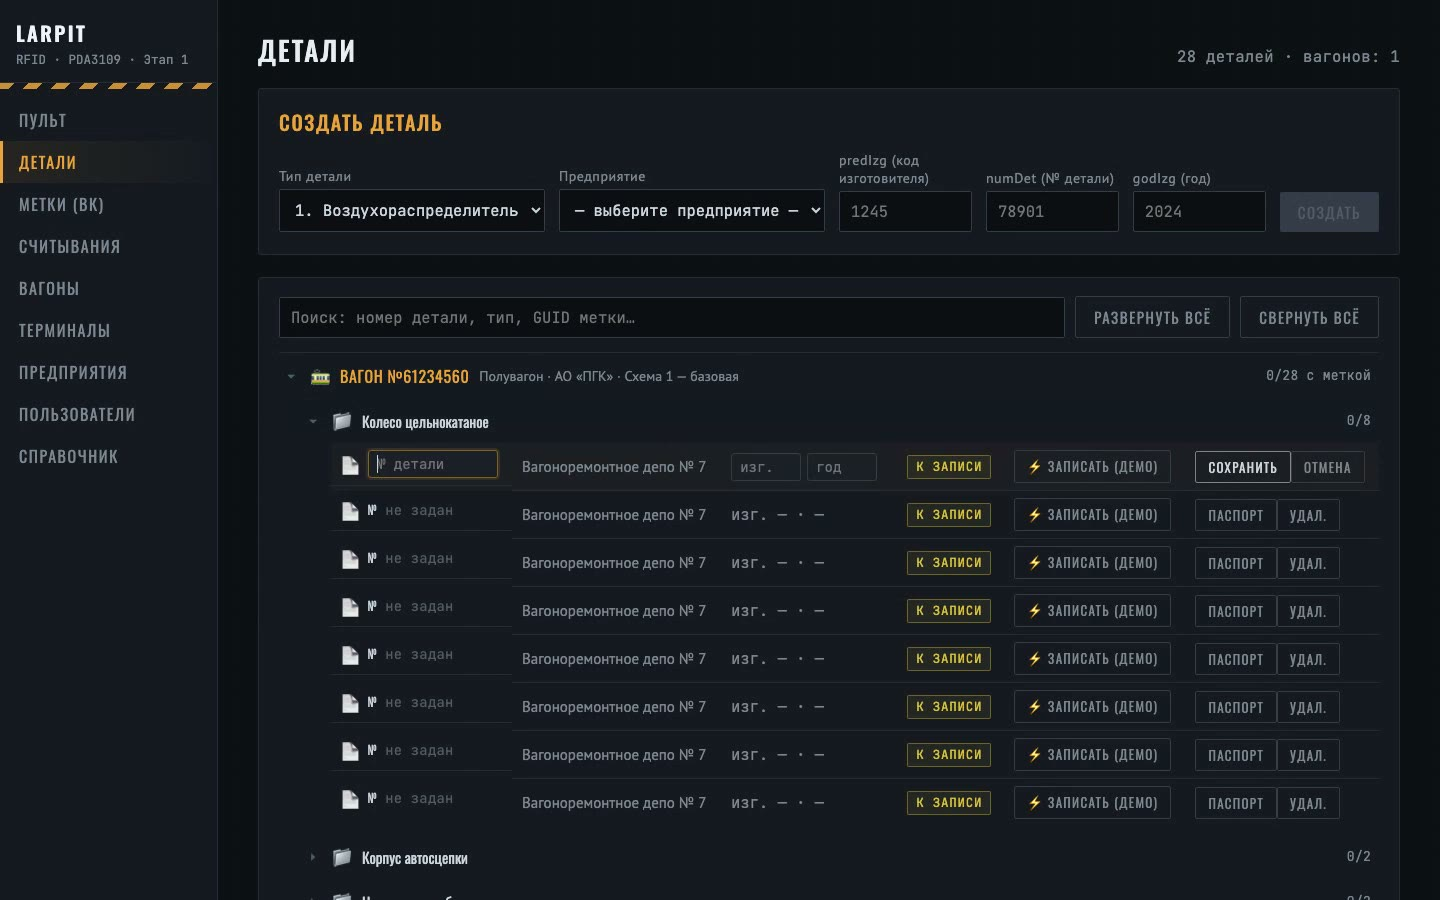
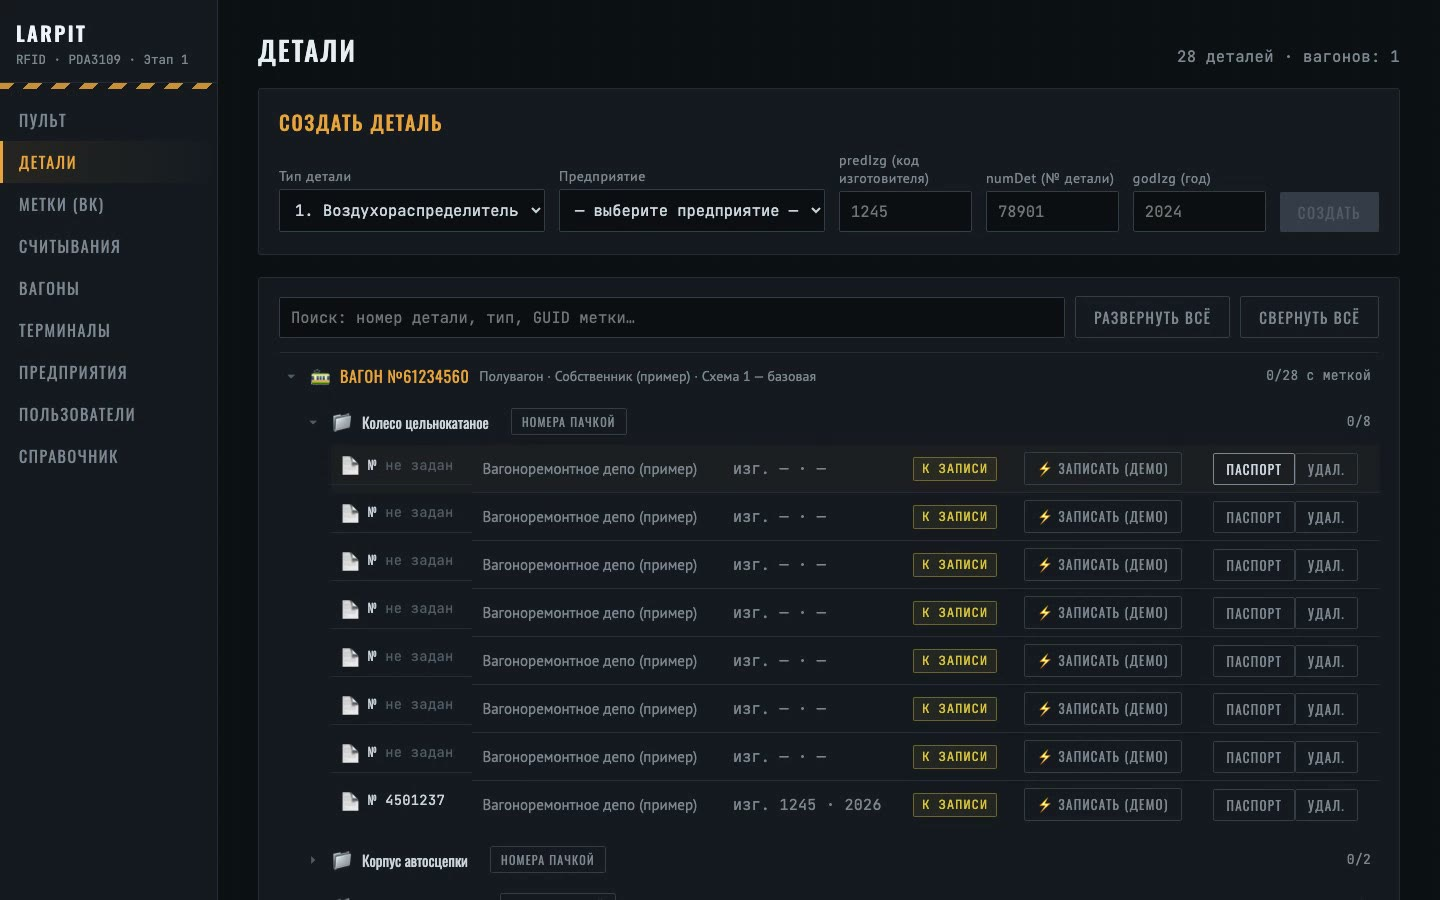
Экраны веб-панели с нейтральными данными; ВМЗ — только опытные работы и протокол

diff --git a/proekt/index.html b/proekt/index.html
@@ -71,7 +71,7 @@
           <dt>23.10.2026</dt><dd>Совещание в АО «ВНИИЖТ», Москва. Рассмотрена технология ЛАРПИТ. Обсуждалось, как учесть параметры проекта в стандарте (ГОСТ), который разрабатывает институт.</dd>
           <dt>Осень 2026</dt><dd>Повторные климатические испытания совместно с АО «Ритм» ТПТА, Тверь: метки считываются в диапазоне от −60 до +120 °C. <a href="/ispytaniya/#stend">Подробнее</a></dd>
           <dt>Октябрь–ноябрь 2026</dt><dd>Скоростные проезды вагона с метками через посты считывания, 30–90 км/ч. Протокол оформляется.</dd>
-          <dt>16.11.2026</dt><dd>Опытные работы совместно с АО «ВМЗ», Выкса: метки установлены на цельнокатаное колесо в колесопрокатном цехе, записаны и считаны. Руководству завода показано решение, ведутся переговоры о ближайших поставках меток. <a href="/ispytaniya/#zavod">Подробнее</a></dd>
+          <dt>16.11.2026</dt><dd>Опытные работы совместно с АО «ВМЗ», Выкса: метки установлены на цельнокатаное колесо в колесопрокатном цехе, записаны и считаны. <a href="/ispytaniya/#zavod">Подробнее</a></dd>
           <dt>17.11.2026</dt><dd>Утверждена дорожная карта пилотного проекта по автоматизации допуска подвижного состава на инфраструктуру с применением RFID-идентификации деталей грузовых вагонов.</dd>
           <dt>19.11.2026</dt><dd>Решение Роспатента о выдаче патента на полезную модель. <a href="/oborudovanie/#patent">Подробнее</a></dd>
         </dl>

diff --git a/ispytaniya/index.html b/ispytaniya/index.html
@@ -203,7 +203,7 @@
           <dl class="info">
             <dt>Запись и считывание</dt><dd>Все метки записаны, сведения на экране считывателя отображаются верно</dd>
             <dt>Считывание в ряду колёс</dt><dd>На расстоянии пяти вертикально установленных колёс, считыватель на уровне ступицы</dd>
-            <dt>Итог</dt><dd>Протокол подписан представителями завода и АО «КГ Софт». Руководству завода показано решение, ведутся переговоры о ближайших поставках меток</dd>
+            <dt>Итог</dt><dd>Протокол подписан представителями завода и АО «КГ Софт»</dd>
           </dl>
           <details class="proto">
             <summary>Скачать протокол — по коду доступа</summary>
